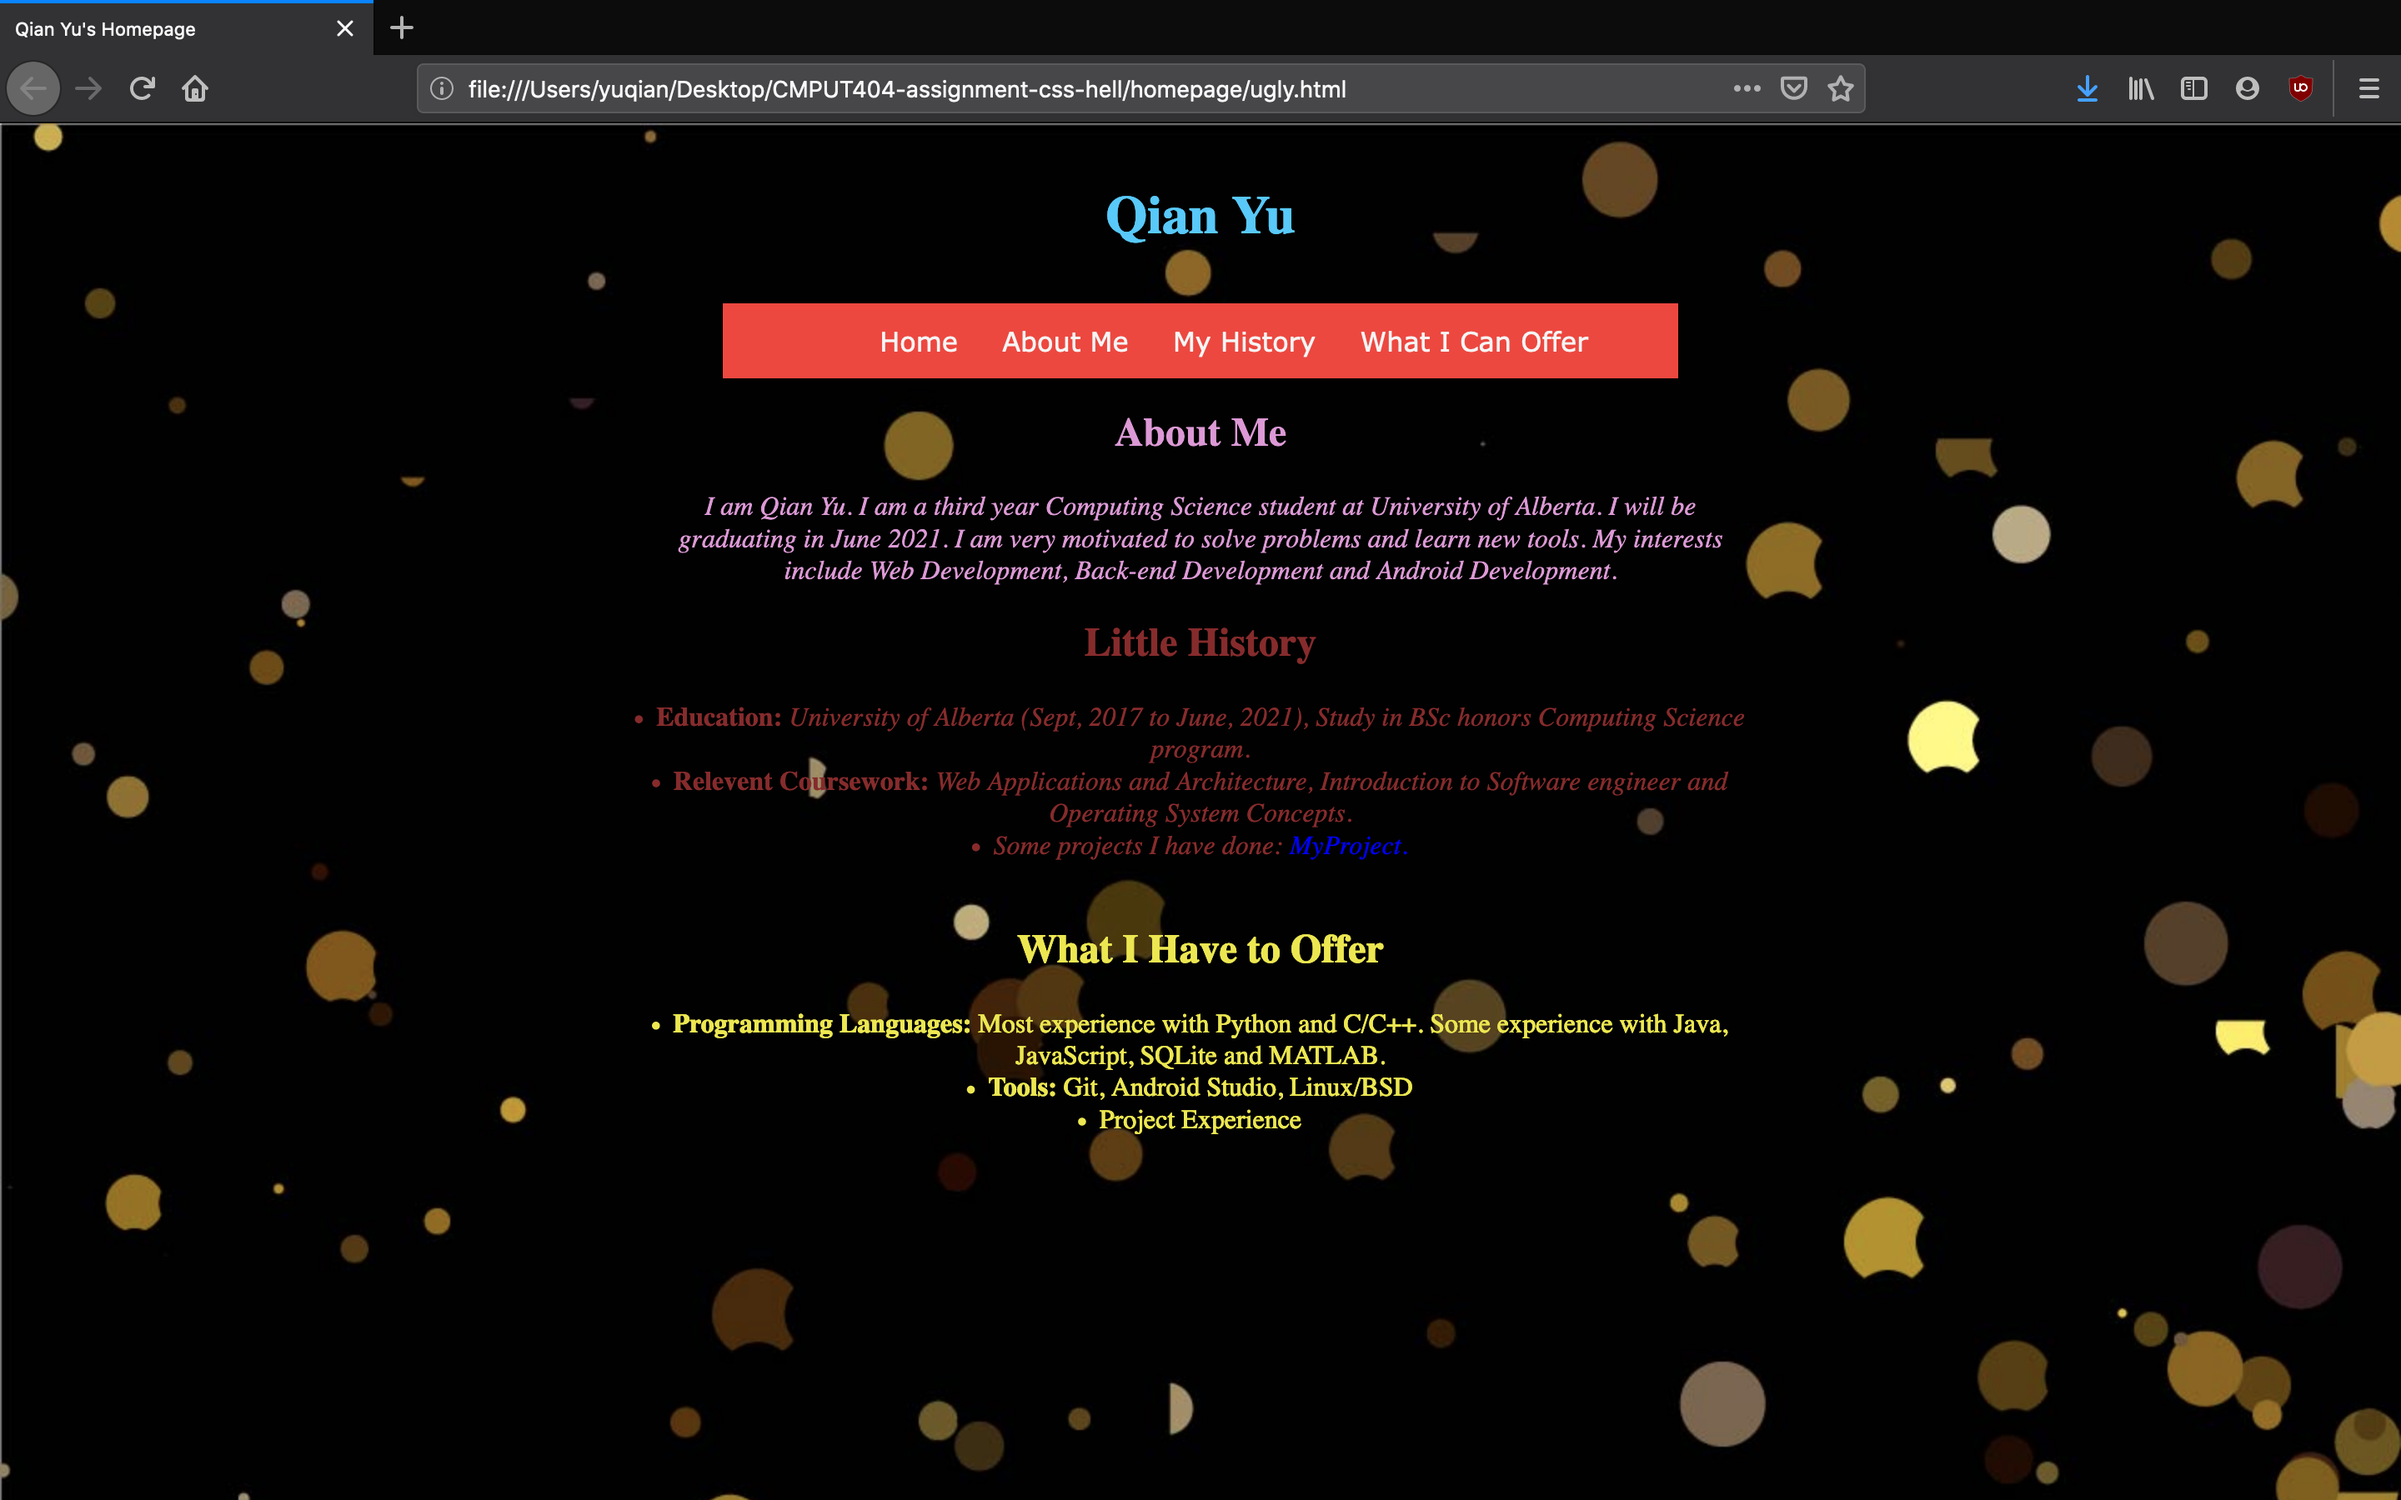
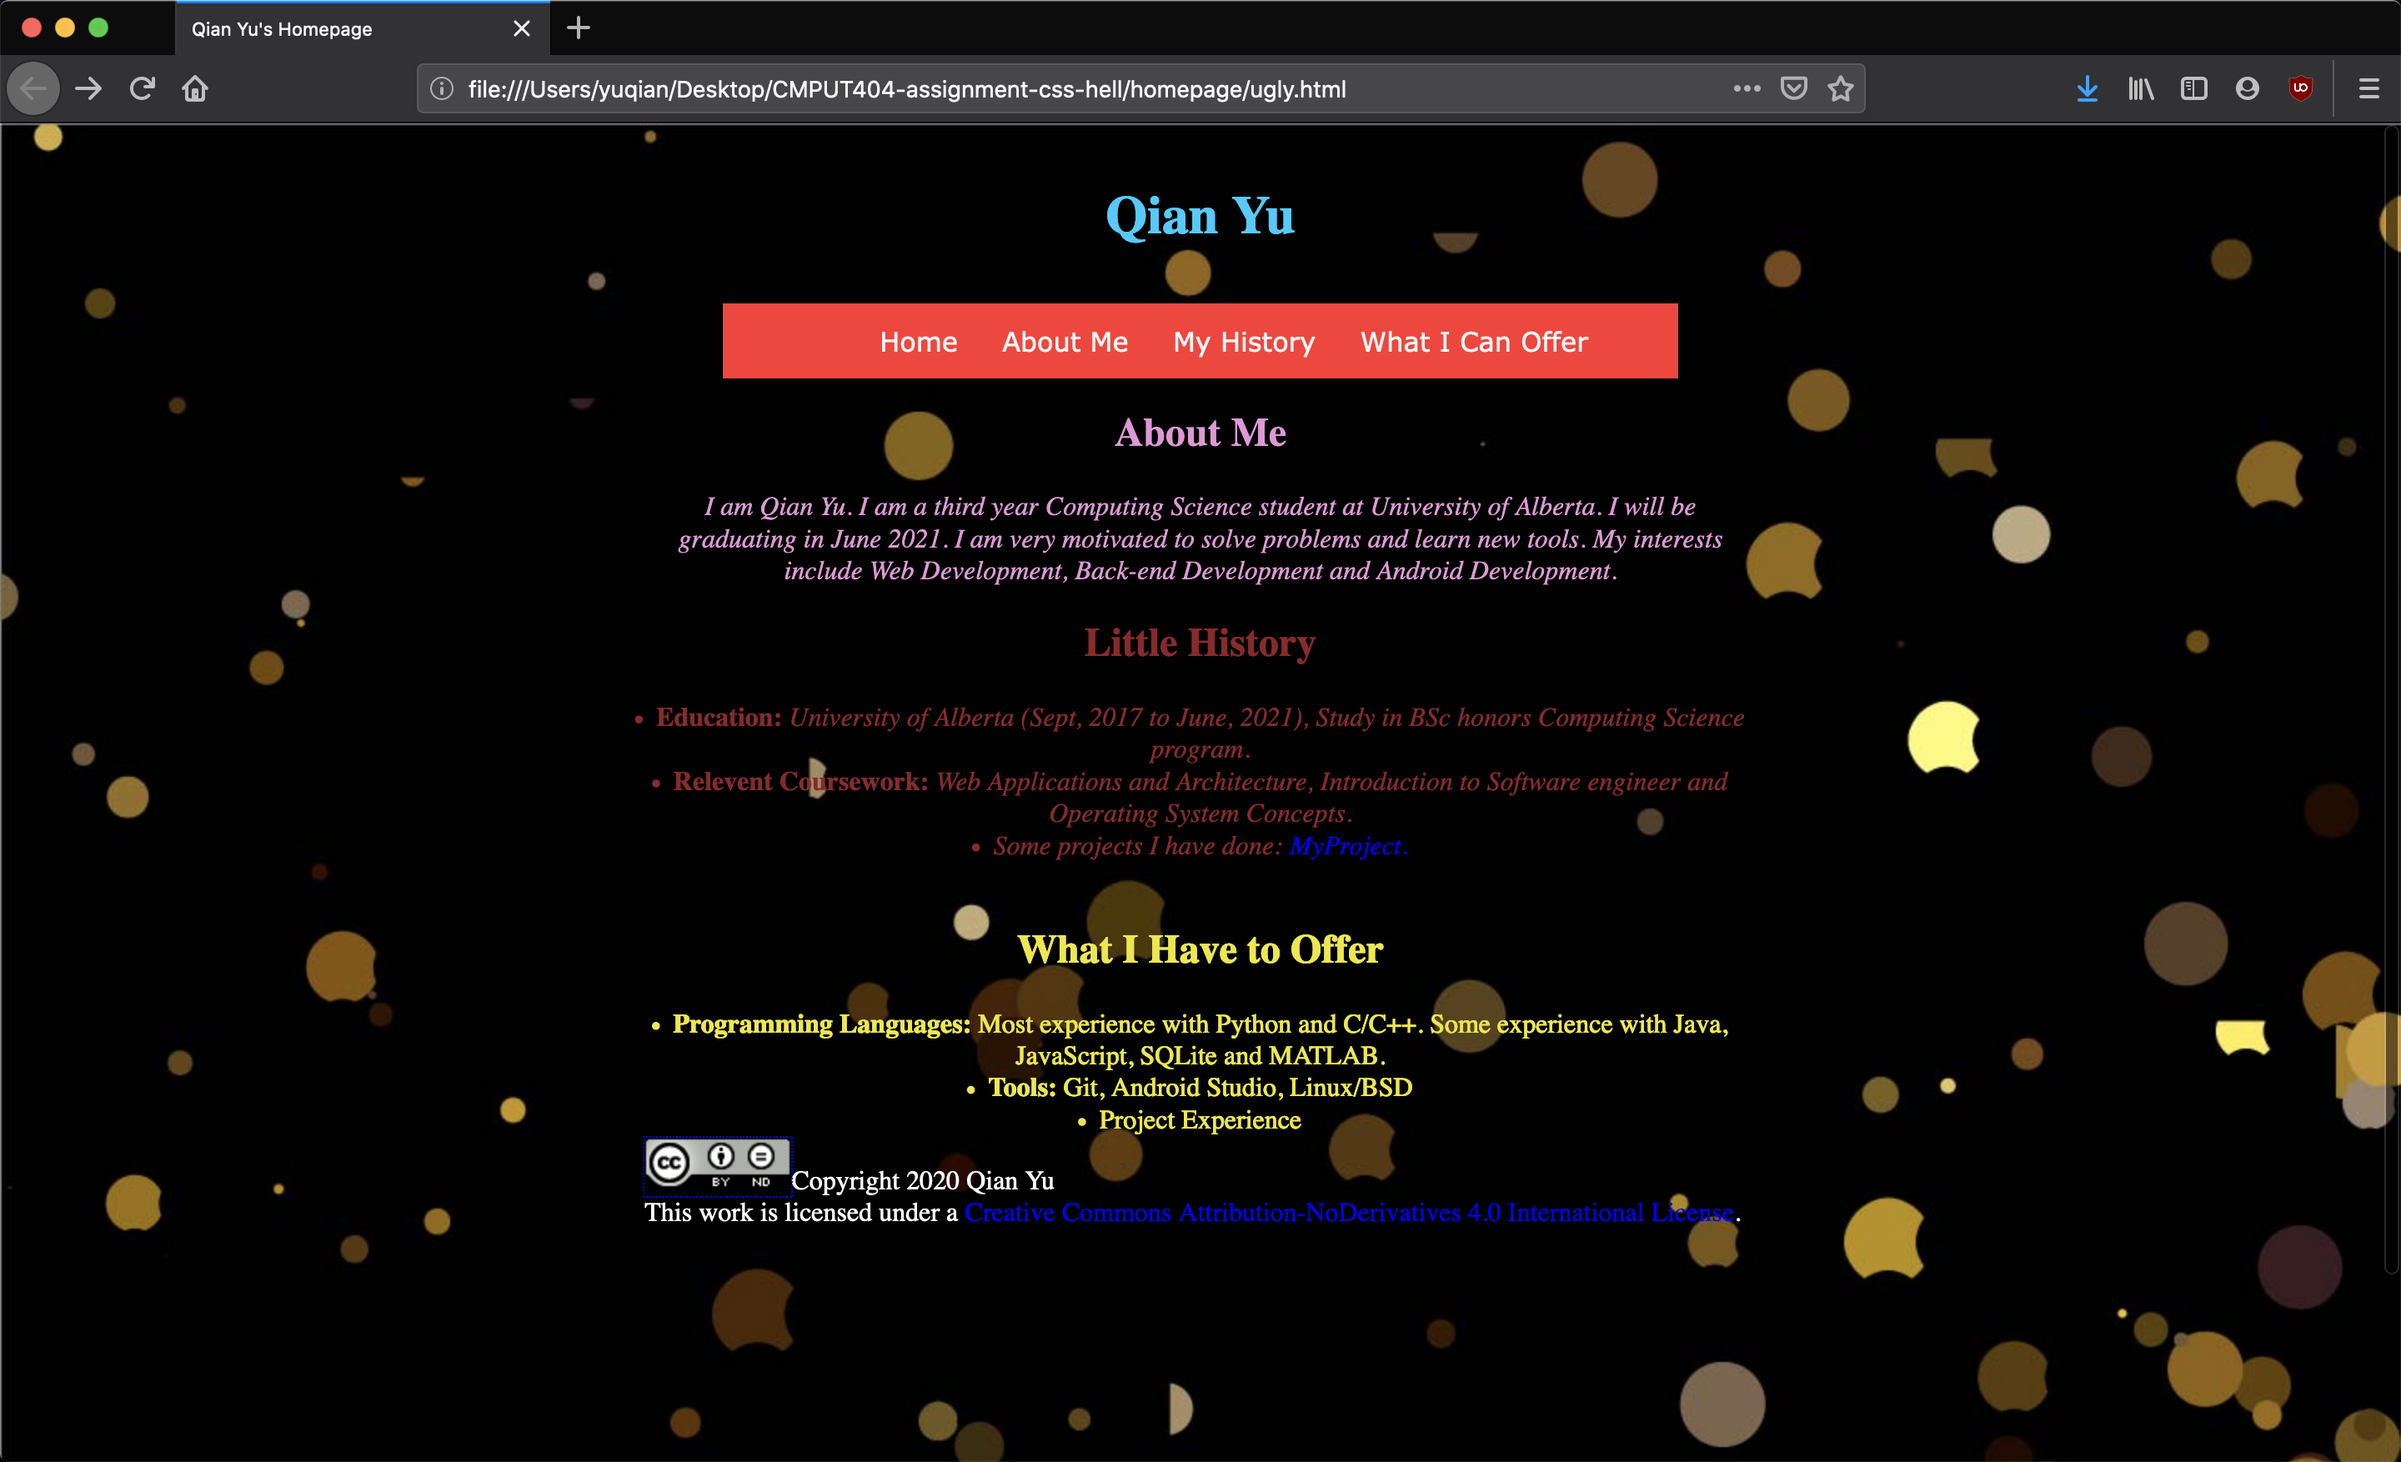
Add license

diff --git a/homepage/good.html b/homepage/good.html
@@ -49,6 +49,9 @@
                     <li> <b>Tools:</b> Git,  Android Studio, Linux/BSD</li>
                     <li> Project Experience</li>
                 </div>
+                </br>
+                </br>
+                <a rel="license" href="http://creativecommons.org/licenses/by-nd/4.0/"><img alt="Creative Commons License" style="border-width:0" src="https://i.creativecommons.org/l/by-nd/4.0/88x31.png" /></a>Copyright 2020 Qian Yu<br />This work is licensed under a <a rel="license" href="http://creativecommons.org/licenses/by-nd/4.0/">Creative Commons Attribution-NoDerivatives 4.0 International License</a>.
             </div>
             <div class = 'right'>
                 <h1> Key Points </h3>
@@ -62,12 +65,16 @@
                 <p>  The process of solving hard problems motivates me to learn more. </p>
 
             </div>
+
         </div>
+
+
         <div class = wood_bottom>
             <li>Home</li>
             <li>About Me</li>
             <li>Little History</li>
             <li>What I Can Offer</li>
         </div>
+
     </body>
 </html>

diff --git a/homepage/ugly.html b/homepage/ugly.html
@@ -41,6 +41,9 @@
                 <li> <b>Tools:</b> Git,  Android Studio, Linux/BSD</li>
                 <li> Project Experience</li>
             </div>
+            <div class = 'license'>
+            <a rel="license" href="http://creativecommons.org/licenses/by-nd/4.0/"><img alt="Creative Commons License" style="border-width:0" src="https://i.creativecommons.org/l/by-nd/4.0/88x31.png" /></a>Copyright 2020 Qian Yu<br />This work is licensed under a <a rel="license" href="http://creativecommons.org/licenses/by-nd/4.0/">Creative Commons Attribution-NoDerivatives 4.0 International License</a>.
+            </div>
         </div>
         <div class = wood_bottom>
             <li>Home</li>

diff --git a/homepage/source/css/good.css b/homepage/source/css/good.css
@@ -96,7 +96,7 @@ div.color_bar{
 	padding-left: 20pt;
 	padding-bottom: 10pt;
 	margin-right: 20pt;
-	margin-top: 50pt;
+	margin-top: 30pt;
 	
 	font-family: Gill Sans;
 	float:left;

diff --git a/homepage/source/css/ugly.css b/homepage/source/css/ugly.css
@@ -54,6 +54,9 @@ ul.menu_bar li{
 	text-align: center;
 	color:#ece751;
 }
+.license{
+	color:#ffffff;
+}
 .avatar {
   vertical-align: middle;
   margin-top: 20pt;
